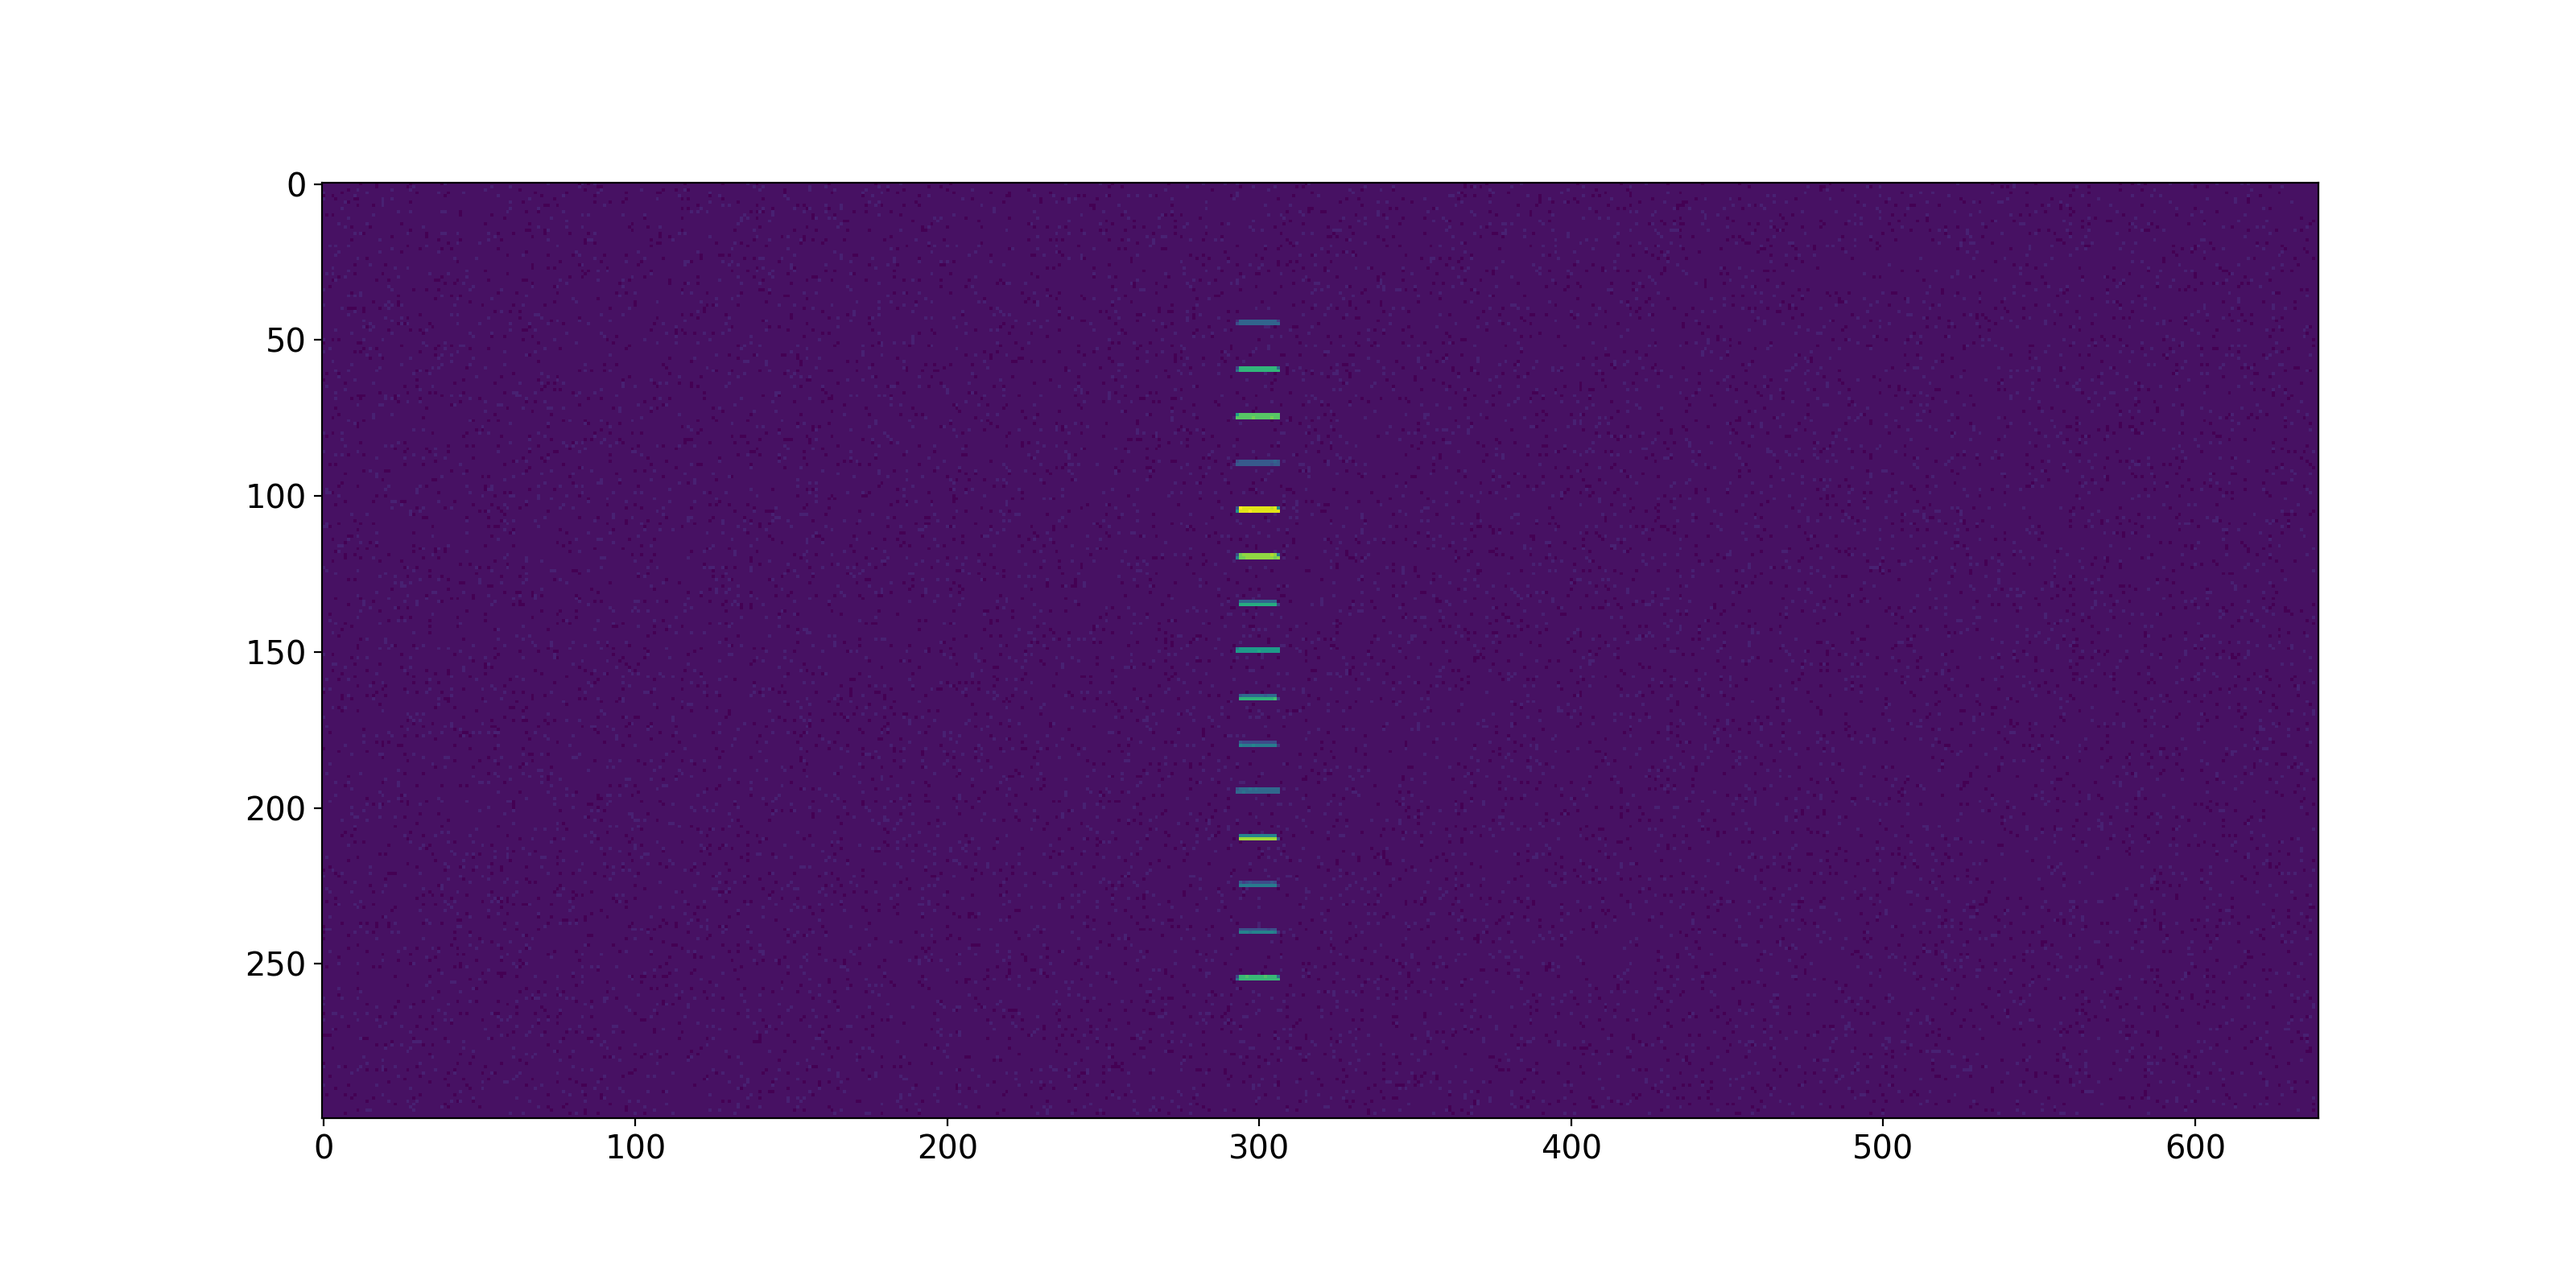
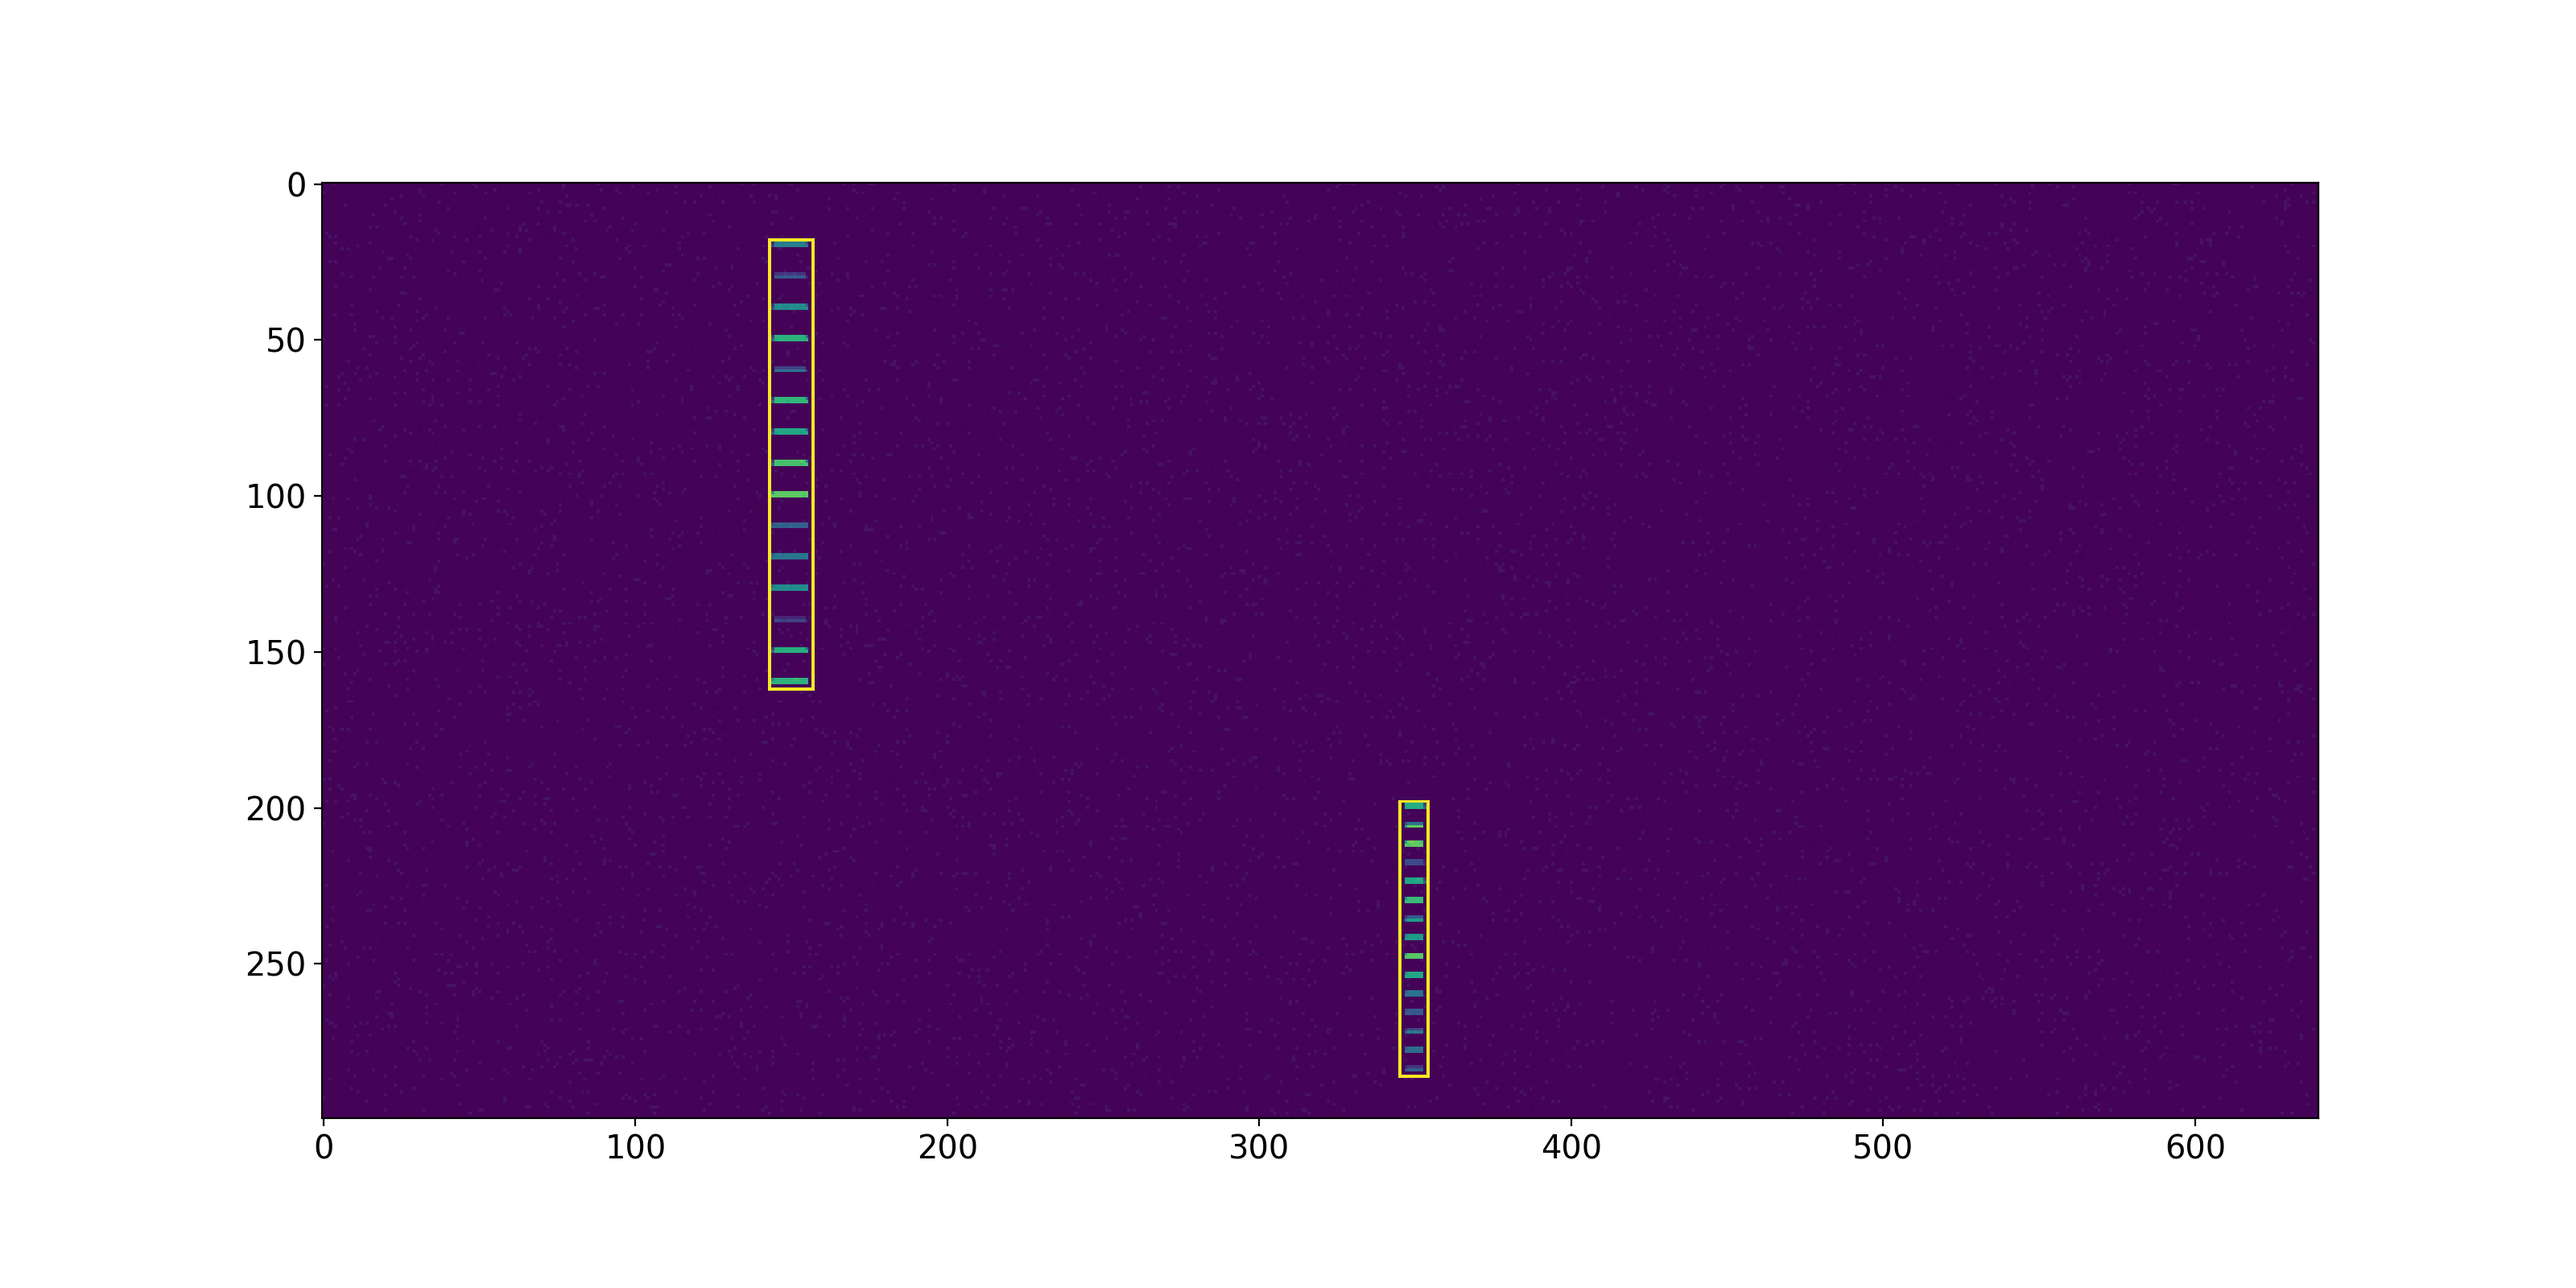
Changement vers approche avec des classes, images train+test

diff --git a/ImageSynthetique.py b/ImageSynthetique.py
@@ -12,87 +12,93 @@ plt.rcParams.update(params)
 
 import cv2
 
-def create_background(height, width, background=5):
-  image = np.ones((height,width), np.float32) * background
-  image = noisy(image, 10)
-  mask = np.zeros((height, width), np.uint8)
-  return image, mask
+def create_background(height, width, background=2):
+    image = np.ones((height,width), np.float32) * background
+    image = noisy(image, 10)
+    mask = np.zeros((height, width), np.uint8)
+    return image, mask
 
 
 def add_bars(image, mask, starting_pt, spacing, length, lines):
-  times = 4
-  height, width = image.shape
-  big_image = np.zeros((height*times,width*times), np.float32)
+    times = 4
+    height, width = image.shape
+    big_image = np.zeros((height*times,width*times), np.float32)
 
-  starting_pt *= times
-  spacing *= times
-  length *= times
-  lines = 15
+    starting_pt *= times
+    spacing *= times
+    length *= times
+    lines = 15
 
-  start = np.array(starting_pt - [length // 2, 0])
-  rect_top = tuple((start+[0,spacing])//times-2)
-  end = np.array(starting_pt + [length // 2, 0])
+    start = np.array(starting_pt - [length // 2, 0])
+    rect_top = tuple(start//times-2)
+    end = np.array(starting_pt + [length // 2, 0])
 
-  min_intensity = 50
-  for line in range(lines):
-      intensity = np.random.randint(min_intensity,200)
-      thickness = np.random.randint(times,2*times)
-      start[1] += spacing
-      end[1] += spacing
-      cv2.line(big_image, tuple(start), tuple(end), intensity, thickness)
+    min_intensity = 50
+    for line in range(lines):
+        intensity = np.random.randint(min_intensity,200)
+        thickness = np.random.randint(times,2*times)
+        cv2.line(big_image, tuple(start), tuple(end), intensity, thickness)
+        start[1] += spacing
+        end[1] += spacing
 
-  rect_bottom = tuple(end//times+2)
-  mask = cv2.rectangle(mask, rect_top, rect_bottom, 255, -1)
+    rect_bottom = tuple((end-[0,spacing])//times+2)
+    mask = cv2.rectangle(mask, rect_top, rect_bottom, 255, -1)
 
-  image_resize = cv2.resize(big_image,(width,height))
-  #image_resize = cv2.GaussianBlur(image_resize,(5,5),0.6)
-  mask_2 = image_resize.copy().astype(np.uint8)
-  _, mask_2 = cv2.threshold(mask_2, min_intensity, 255, cv2.THRESH_BINARY)
-  mask_2 += image_resize.astype(np.uint8)
-  mask_2 = cv2.bitwise_not(mask_2)
+    image_resize = cv2.resize(big_image,(width,height))
+    #image_resize = cv2.GaussianBlur(image_resize,(5,5),0.6)
+    mask_2 = image_resize.copy().astype(np.uint8)
+    _, mask_2 = cv2.threshold(mask_2, min_intensity, 255, cv2.THRESH_BINARY)
+    mask_2 += image_resize.astype(np.uint8)
+    mask_2 = cv2.bitwise_not(mask_2)
 
-  image_ret = cv2.bitwise_and(image, image, mask = mask_2)
-  image_ret = cv2.add(image_ret, image_resize)
-  return image_ret, mask
+    image_ret = cv2.bitwise_and(image, image, mask = mask_2)
+    image_ret = cv2.add(image_ret, image_resize)
+    return image_ret, mask, rect_top, rect_bottom
 
 def noisy(image, height):
-  row,col= image.shape
-  s_vs_p = 0.5
-  amount = 0.08
-  out = np.copy(image)
-  # Salt mode
-  num_salt = np.ceil(amount * image.size * s_vs_p)
-  coords = [np.random.randint(0, i - 1, int(num_salt))
+    row,col= image.shape
+    s_vs_p = 0.5
+    amount = 0.08
+    out = np.copy(image)
+    # Salt mode
+    num_salt = np.ceil(amount * image.size * s_vs_p)
+    coords = [np.random.randint(0, i - 1, int(num_salt))
           for i in image.shape]
-  out[tuple(coords)] += height
-  # Pepper mode
-  num_pepper = np.ceil(amount* image.size * (1. - s_vs_p))
-  coords = [np.random.randint(0, i - 1, int(num_pepper))
+    out[tuple(coords)] += height
+    # Pepper mode
+    num_pepper = np.ceil(amount* image.size * (1. - s_vs_p))
+    coords = [np.random.randint(0, i - 1, int(num_pepper))
           for i in image.shape]
-  out[tuple(coords)] -= height
-  return out
+    out[tuple(coords)] -= height
+    return out
 
 def sliding_window(image, image_mask, window_size, pad_h, pad_v):
-  windows_h = (width - window_size) // pad_h + 1
-  windows_v = (height - window_size) // pad_v + 1
-  crops = np.zeros((windows_v, windows_h, window_size, window_size))
-  labels = np.zeros((windows_v, windows_h))
-  for j in range(windows_v):
-    y_top = j*pad_v
-    y_bottom = j*pad_v + window_size
-    for i in range(windows_h):
-      x_top = i*pad_h
-      x_bottom = i*pad_h + window_size
-      crop = image[y_top:y_bottom, x_top:x_bottom]
-      crops[j,i,:,:] = crop
-      mask_crop = image_mask[y_top:y_bottom, x_top:x_bottom]
-      labels[j,i] = mask_crop.any()
-  return crops, labels
+    windows_h = (width - window_size) // pad_h + 1
+    windows_v = (height - window_size) // pad_v + 1
+    crops = np.zeros((windows_v, windows_h, window_size, window_size))
+    labels = np.zeros((windows_v, windows_h))
+    for j in range(windows_v):
+        y_top = j*pad_v
+        y_bottom = j*pad_v + window_size
+        for i in range(windows_h):
+            x_top = i*pad_h
+            x_bottom = i*pad_h + window_size
+            crop = image[y_top:y_bottom, x_top:x_bottom]
+            crops[j,i,:,:] = crop
+            mask_crop = image_mask[y_top:y_bottom, x_top:x_bottom]
+            labels[j,i] = mask_crop.any()
+    return crops, labels
 
 def plot_masked(image, mask):
-  masked = cv2.bitwise_and(image, image, mask=mask)
-  fig = plt.imshow(masked, vmin=0, vmax=255)
-  pass
+    masked = cv2.bitwise_and(image, image, mask=mask)
+    fig = plt.imshow(masked, vmin=0, vmax=255)
+    pass
+
+def plot_label(image, rect_top, rect_bottom):
+    temp = image.copy()
+    temp = cv2.rectangle(temp, rect_top, rect_bottom, 255, 1)
+    fig = plt.imshow(temp, vmin=0, vmax=255)
+    pass
 
 def resize_labels(labels, pad_h, pad_v, window_size):
   labels_resize = np.zeros_like(image, dtype='uint8')

diff --git a/main.py b/main.py
@@ -1,18 +1,100 @@
 from ImageSynthetique import *
+class Image(object):
+    """docstring for ."""
 
+    def __init__(self, height, width=640):
+        #super(Image, self).__init__()
+        self.height = height
+        self.width = width
+        self.create_image()
+        self.objects = []
+
+    def create_image(self):
+        self.image = np.ones((self.height, self.width), np.float32) * 2
+        self.image = noisy(self.image, 10)
+        self.mask = np.zeros((self.height, self.width), np.uint8)
+        pass
+
+    def add_object(self, starting_pt, spacing, length, lines):
+        times = 4
+        big_image = np.zeros((self.height*times,self.width*times), np.float32)
+
+        starting_pt = np.array(starting_pt)*times
+        spacing *= times
+        length *= times
+        lines = 15
+
+        start = np.array(starting_pt - [length // 2, 0])
+        rect_top = tuple(start//times-2)
+        end = np.array(starting_pt + [length // 2, 0])
+
+        min_intensity = 50
+        for line in range(lines):
+            intensity = np.random.randint(min_intensity,200)
+            thickness = np.random.randint(times,2*times)
+            cv2.line(big_image, tuple(start), tuple(end), intensity, thickness)
+            start[1] += spacing
+            end[1] += spacing
+
+        rect_bottom = tuple((end-[0,spacing])//times+2)
+        self.mask = cv2.rectangle(self.mask, rect_top, rect_bottom, 255, -1)
+
+        image_resize = cv2.resize(big_image,(self.width,self.height))
+        #image_resize = cv2.GaussianBlur(image_resize,(5,5),0.6)
+        mask_2 = image_resize.copy().astype(np.uint8)
+        _, mask_2 = cv2.threshold(mask_2, min_intensity, 255, cv2.THRESH_BINARY)
+        mask_2 += image_resize.astype(np.uint8)
+        mask_2 = cv2.bitwise_not(mask_2)
+
+        self.image = cv2.bitwise_and(self.image, self.image, mask = mask_2)
+        self.image = cv2.add(self.image, image_resize)
+        self.objects.append((rect_top,rect_bottom))
+        pass
+
+    def plot_masked(self):
+        masked = cv2.bitwise_and(self.image, self.image, mask=self.mask)
+        fig = plt.imshow(masked, vmin=0, vmax=255)
+        pass
+
+    def plot_label(self):
+        print(self.image.shape)
+        temp = self.image.copy()
+        for obj in self.objects:
+            temp = cv2.rectangle(temp, obj[0], obj[1], 255, 1)
+        fig = plt.imshow(temp, vmin=0, vmax=255)
+        return fig
+        
 
 height = 300
 width = 640
 
+train = Image(height, width)
 
-starting_point = np.array([300, 30])
+starting_point = [300, 20]
 spacing = 15
 length = 12
 lines = 15
 
-image, mask = create_background(height, width, background=2)
-image, mask = add_bars(image, mask, starting_point, spacing, length, lines)
+train.add_object(starting_point, spacing, length, lines)
+train.plot_label()
+plt.savefig('train')
 
-#plot_masked(image, mask)
-plt.imshow(image)
+# Image test
+test = Image(300)
+
+# Premier objet
+starting_point = [150, 20]
+spacing = 10
+length = 10
+lines = 8
+test.add_object(starting_point, spacing, length, lines)
+
+# Deuxième objet
+starting_point = [350, 200]
+spacing = 6
+length = 5
+lines = 8
+test.add_object(starting_point, spacing, length, lines)
+
+fig = test.plot_label()
 plt.savefig('test')
